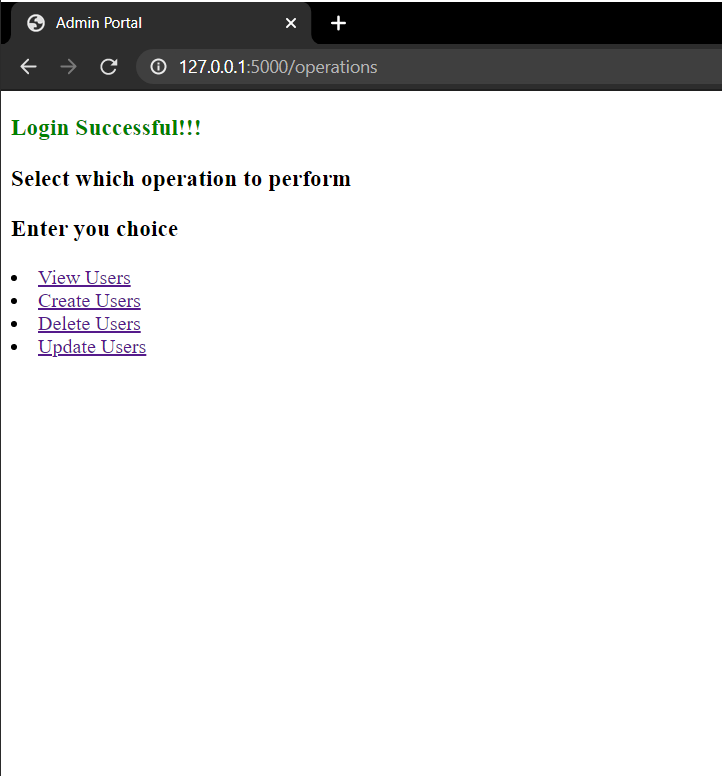
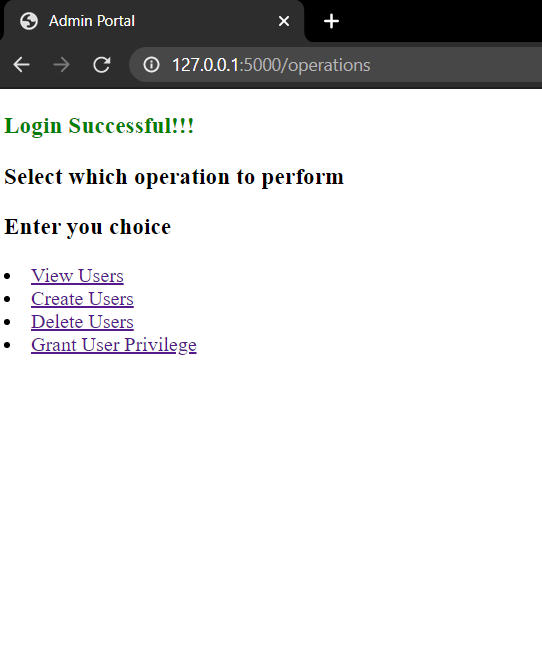
Added documentation and detailed summary

Changed region(s): [[0.0, 0.0, 1.0, 0.5438]]

diff --git a/templates/home.html b/templates/home.html
@@ -9,16 +9,16 @@
         <h3>Enter Machine IP</h3>
         <div>
             <label>Enter IP:</label>
-            <input name="system_ip" type="text" placeholder="IP Address"/>
+            <input name="system_ip" type="text" placeholder="IP Address" required/>
         </div>
         <h3>Enter Credentials</h3>
         <div>
             <label>Enter Username:</label>
-            <input name="username" type="text" placeholder="Username"/>
+            <input name="username" type="text" placeholder="Username" required/>
         </div>
         <div>
             <label>Enter Password:</label>
-            <input name="password" type="password" placeholder="Password"/>
+            <input name="password" type="password" placeholder="Password" required/>
         </div>
         <div style="margin-top:2em">
             <button type="submit">Submit</button>

diff --git a/templates/operations.html b/templates/operations.html
@@ -6,14 +6,13 @@
 </head>
 
 <body>
-    <h3 style="color:green">Login Successful!!! </h3>
     <h3>Select which operation to perform</h3>
     <h3>Enter you choice</h3>
     <div>
         <li><a href="/view">View Users</a></li>
         <li><a href="/create">Create Users</a></li>
         <li><a href="/delete">Delete Users</a></li>
-        <li><a href="/assign-privilege">Update Users</a></li>
+        <li><a href="/assign-privilege">Grant User Privilege</a></li>
     </div>
 </body>
 

diff --git a/templates/message.html b/templates/message.html
@@ -4,6 +4,6 @@
     <title>Admin Portal</title>
 </head>
 <body>
-    <h3 style="color:red">{{message}}</h3>
+    <h3 style="color:{{color}}">{{message}}</h3>
 </body>
 </html>

diff --git a/app.py b/app.py
@@ -2,7 +2,6 @@ from flask import Flask, render_template, request, session, redirect, url_for
 from operations import OperationsUtil
 app = Flask(__name__)
 
-# app.config.from_object('config.Config')
 app.config['SECRET_KEY'] = '*gvb_)uc+@xdr@+e%@bzc^i24uw)@_hl26q2+ihv4gd9e2oy-g'
 
 @app.route('/', methods=['GET'])
@@ -17,23 +16,31 @@ def connectToMachine():
         password = str(request.form['password'])
 
         if not system_ip or not username or not password:
-            return render_template('error.html', message="Invalid Credentials")
+            return render_template('message.html', message="Invalid Credentials", color='red')
         
         validIP = list(filter(lambda x:x>0 and x<255, [int(x) for x in system_ip.split(".")]))
         
         if len(validIP)!=4:
-            return render_template('error.html', message="Invalid Credentials")
+            return render_template('message.html', message="Invalid IP Address", color='red')
+
         result = OperationsUtil.tryConnection(system_ip, username, password)
+        
         session['system_ip'] = system_ip
         session['username'] = username
         session['password'] = password
         return redirect(url_for('operations'))
     except Exception as e:
-        return render_template('error.html', message='Invalid Credentials')
+        return render_template('message.html', message='Invalid Credentials', color='red')
 
 @app.route('/operations', methods=['GET'])
 def operations():
-    return render_template('operations.html')
+    try:
+        a = session['system_ip']
+        b = session['username']
+        c = session['password']
+        return render_template('operations.html')
+    except Exception as e:
+        return render_template('message.html', message='Invalid Session', color='red')
 
 @app.route('/create', methods=['GET', 'POST'])
 def createUser():
@@ -44,25 +51,31 @@ def createUser():
             dirname = str(request.form['dirname'])
             result = OperationsUtil.createUser(session['system_ip'], session['username'], session['password'], username, password, dirname)
             if result[1]==1:
-                return render_template('error.html', message=result[0])
+                return render_template('message.html', message=result[0], color='red')
             else:
-                return render_template('success.html', message=result[0])
+                return render_template('message.html', message=result[0], color='green')
         except Exception as e:
-            return render_template('error.html', message='Invalid Credentials')
+            return render_template('message.html', message='Invalid Credentials', color='red')
     else:
-        return render_template('create_user.html')
+        try:
+            a = session['system_ip']
+            b = session['username']
+            c = session['password']
+            return render_template('create_user.html')
+        except Exception as e:
+            return render_template('message.html', message='Invalid Session', color='red')
 
 @app.route('/view', methods=['GET'])
 def viewUser():
     try:
         result = OperationsUtil.viewUser(session['system_ip'], session['username'], session['password'])
         if result[1]==1:
-            return render_template('error.html', message=result[0])
+            return render_template('message.html', message=result[0], color='red')
         else:
             users = result[0].split("\n")
             return render_template('view_user.html',users=users)
     except Exception as e:
-        return render_template('error.html', message='Connection Invalid')
+        return render_template('message.html', message='Invalid Session', color='red')
     
 
 @app.route('/assign-privilege', methods=['GET', 'POST'])
@@ -72,13 +85,19 @@ def updateUser():
             username = str(request.form['username'])
             result = OperationsUtil.updatePriv(session['system_ip'], session['username'], session['password'], username)
             if result[1]==0:
-                return render_template('success.html', message=result[0])
+                return render_template('message.html', message=result[0], color='green')
             else:
-                return render_template('error.html', message=result[0])
+                return render_template('message.html', message=result[0], color='red')
         except Exception as e:
-            return render_template('error.html', message='Connection Invalid')
+            return render_template('message.html', message='Invalid Session', color='red')
     else:
-        return render_template('update_user.html')
+        try:
+            a = session['system_ip']
+            b = session['username']
+            c = session['password']
+            return render_template('update_user.html')
+        except Exception as e:
+            return render_template('message.html', message='Invalid Session', color='red')
 
 @app.route('/delete', methods=['GET', 'POST'])
 def deleteUser():
@@ -87,13 +106,19 @@ def deleteUser():
             username = str(request.form['username'])
             result = OperationsUtil.deluser(session['system_ip'], session['username'], session['password'], username)
             if result[1]==0:
-                return render_template('success.html', message=result[0])
+                return render_template('message.html', message=result[0], color='green')
             else:
-                return render_template('error.html', message=result[0])
+                return render_template('message.html', message=result[0], color='red')
         except Exception as e:
-            return render_template('error.html', message='Connection Invalid')
+            return render_template('message.html', message='Invalid Session', color='red')
     else:
-        return render_template('delete_user.html')
+        try:
+            a = session['system_ip']
+            b = session['username']
+            c = session['password']
+            return render_template('delete_user.html')
+        except Exception as e:
+            return render_template('message.html', message='Invalid Session', color='red')
 
 if __name__ == '__main__':
     app.run()

diff --git a/README.md b/README.md
@@ -1,6 +1,163 @@
 # WebAdmin
 
-ref:
-1. https://www.tutorialspoint.com/flask/flask_sessions.htm
+## Architecture Diagram
+
+![Architecture](images/architecture.jpg)
+
+## Detailed Workflow
+1. `operations.py`
+    - Each method is a static method which is stateless
+    - Each method takes at least three arguments that has machine ip, username and password to create a remote connection to machine.
+    - Made use of fabric python library to execute shell commands on remote machine via SSH connection.
+    - A connection is created for each execution of a method and closed after completion of the operation.
+    - All the methods handles any exception that is thrown due to various reasons and returns respective message.
+
+2. `app.py`
+    - Made use of Flask micro-framework to host dynamic templates that provides content and forms to the user.
+    - After successful authentication, a session variables are 
+    - There are following routes of web portal:
+        1. `/home`
+
+            Uses GET method to provide Home page that asks for machine IP, credentials for root user.
+            If root credentials are not provided, login stays successful but privileged actions like creating, deleting and granting privilege to other users fails.
+        
+        2. `/connect`
+
+            Uses POST method to validate and create session variable for the user after successful authentication otherwise shows 'Login unsuccessful' message.
+
+        3. `/operations`
+
+            Uses GET method to host operations.html page that provides links to different actions that are available for the user.
+            - View Users
+            - Create User
+            - Delete User
+            - Grant User Privilege
+        
+        4. `/view`
+
+            Uses GET method to list all the users that resides in the machine
+            
+        5. `/create`
+
+            Uses GET method to host Create User template that has form asking for details like username, password and home directory name for user.
+            And POST method to execute create user operation from `operations.py`.
+            
+        6. `/delete`
+
+            Uses GET method to host Delete User template that has form asking for details like username of the user to be deleted.
+            And POST method to execute delete user operation from `operations.py`.
+
+        7. `/assign-privilege`
+
+            Uses GET method to host Grant user privilege template that has form asking for details like username for user.
+            And POST method to execute grant user privilege operation from `operations.py`.
+    
+3. `templates`
+    - Since Flask has dependency of Jinja2 which is used for template rendering, it provides dynamic HTML content.
+    - Made use of Jinja to run 
+    ```python
+    {% for user in users%}
+        <li>{{user}}</li>
+    {% endfor %}
+
+    <h3 style="color:{{color}}">{{message}}</h3>
+    ```
+
+
+---
+## Decisions
+1. ### Why Virtual Environment?
+    Since python has an ever changing and growing community, dependencies differ with each version. Therefore, python provides virtual environment for each project, thus avoiding global dependency of each version of some library.
+    To activate virtual env.
+    ```
+    $ python -m venv env
+    $ . env/Scripts/activate
+    $ (env) pip install -r requirements.txt
+    ```
+
+2. ### Why Flask?
+    Flask is a light-weight framework popularly categorized as a micro framework. Flask is a good choice as it offers flexibility. Flask applications are mostly single-page applications (SPAs). It’s a good choice for small and medium-sized web applications.
+    To run the application
+    ```
+    $ (env) python app.py
+    ```
+
+3. ### Why Fabric?
+    Fabric is a Python library and command-line tool for streamlining the use of SSH for application deployment or systems administration tasks. Fabric is very simple and powerful and can help to automate repetitive command-line tasks. This approach can save time by automating your entire workflow.
+    ```python
+    from fabric import Connection
+    
+    with Connection(host = '10.10.10.1',user = 'user', connect_kwargs={"password": 'passwd'}) as conn:
+        conn.run('uname -s')
+    ```
+
+
+---
+## SCREENSHOTS OF THE RUNNING APPLICATION
+
+- ### Home page
+    ![Home](images/home.png)
+
+    ---
+<!-- Authentication to the server fails
+![Authentication_Failure](images/authFail.png) -->
+
+- ### Authentication successful
+    ![Authentication_Success](images/authSuccess.png)
+
+    ---
+- ### View Users
+    ![View_Users](images/viewUsers.png)
+
+    ---
+- ### Create User
+    ![Create_user](images/createUser.png)
+
+    ---
+<!-- User Created
+![Create_user_success](images/createSuccess.png)
+
+Create User fails as user already exists
+![create_user_fails](images/userExists.png) -->
+
+<!-- Create user with custom directory
+![create_user_dir](images/createUser_dir.png) -->
+
+<!-- View created user
+![view_test_user](images/viewtestUser.png) -->
+
+- ### Delete User
+    ![delete_user](images/deleteUser.png)
+
+    ---
+<!-- Delete User Successful
+
+![delete_user_success](images/deleteSuccess.png)
+
+Delete user fails
+![delete_user_fails](images/userNotExists.png) -->
+
+- ### Assign user Privileges
+    ![assign_privileges](images/assignPrivilege.png)
+
+    ---
+<!-- User Privileges granted
+![privieleges_granted](images/privilegeGranted.png) -->
+
+- ### Bash Result
+    ![bash_result](images/userCreated.png)
+    
+    ---
+- ### Accessing Pages without providing valid Machine credentials
+    ![bash_result](images/invalidSession.png)
+
+---
+
+
+
+
+
+## References:
+1. https://flask.palletsprojects.com/en/1.1.x/quickstart/
 2. https://pythonbasics.org/flask-sessions/
 3. http://docs.pyinvoke.org/en/latest/api/context.html#invoke.context.Context.sudo
